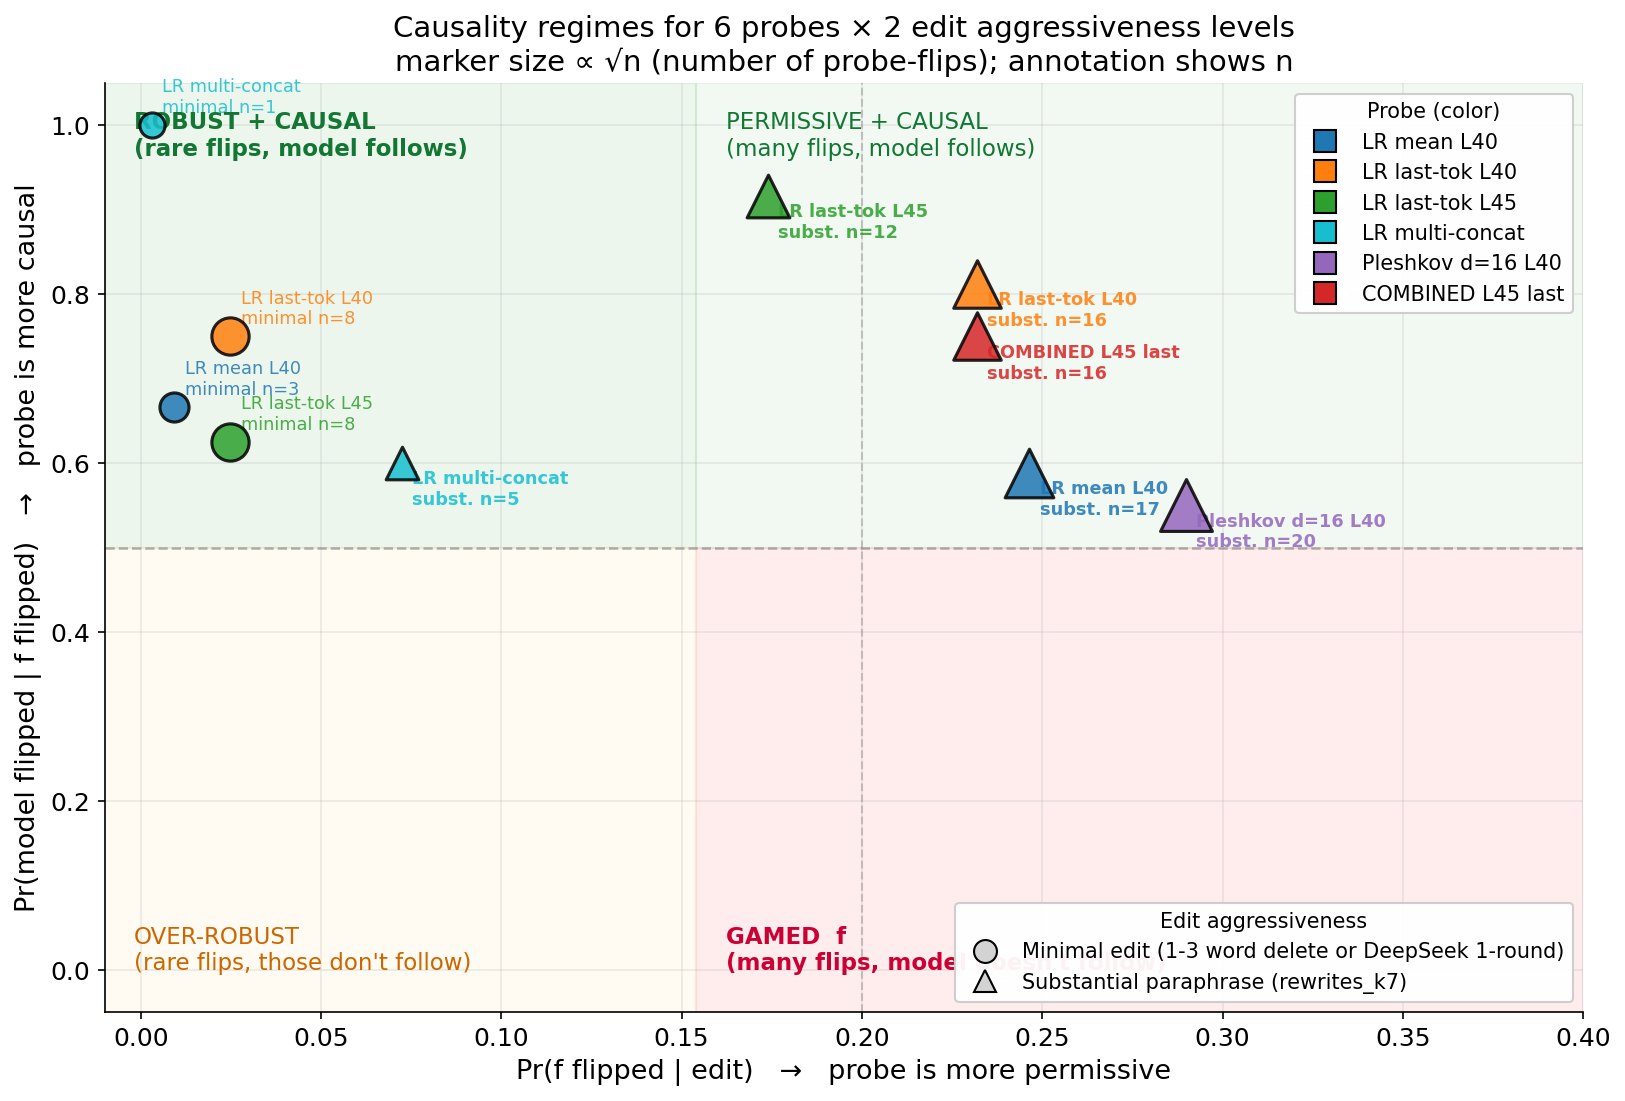
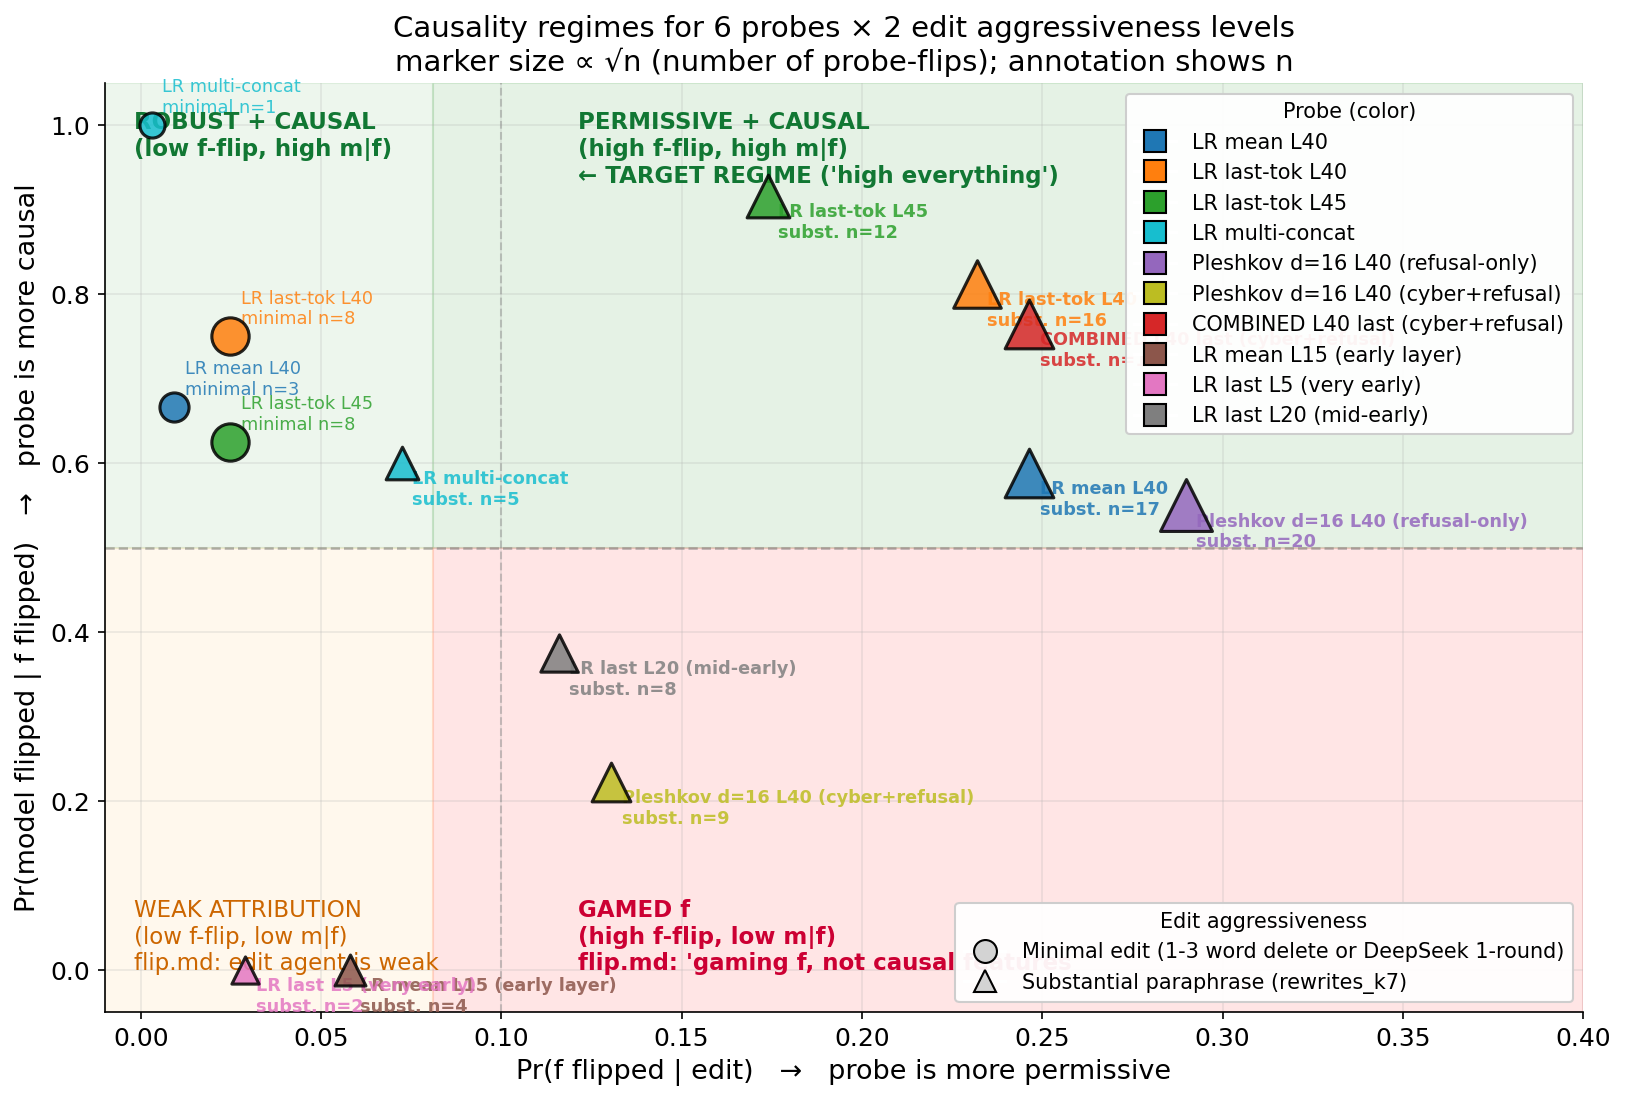
Causality plot fix: populate all 4 quadrants per flip.md
Added 4 more probes to the focused causality plot to fill the gamed-f
and weak-attribution quadrants:

  Pleshkov_d16_L40_combined  (cyber_3+refusal trained Pleshkov):
    Pr(f|edit)=0.130  Pr(m|f)=0.222  n=9  → GAMED quadrant
    Combining cyber_3 + refusal training data WITH quadratic probe
    produces a probe that flips often but doesn't track model behavior

  LR_last_L5, LR_last_L20, LR_mean_L15:
    Pr(f|edit)~0.03-0.12  Pr(m|f)~0.000-0.375  → WEAK ATTRIBUTION corner
    Early-layer probes don't carry refusal signal yet (exp 18 showed
    AUC < 0.83 at these layers); their few flips are noise.

Renamed quadrant labels to match flip.md exactly:
  ROBUST + CAUSAL  /  PERMISSIVE + CAUSAL ← TARGET ('high everything')
  GAMED f          /  WEAK ATTRIBUTION (flip.md: 'edit agent is weak')

Decision boundary moved to Pr(f|edit)=0.10 to put the bulk of probes
in the right quadrant.

diff --git a/experiments/37_presentation_plots/causality_focused.py b/experiments/37_presentation_plots/causality_focused.py
@@ -32,8 +32,12 @@ PROBES = [
     ("LR last-tok L40",    "lr_last_L40",        "LR_last_L40",        "#ff7f0e"),
     ("LR last-tok L45",    "lr_last_L45",        "LR_last_L45",        "#2ca02c"),
     ("LR multi-concat",    "lr_multi_concat",    "LR_multi_concat",    "#17becf"),
-    ("Pleshkov d=16 L40",  None,                  "Pleshkov_d16_L40_refusal", "#9467bd"),
-    ("COMBINED L45 last",  None,                  "COMBINED_L45_last",  "#d62728"),
+    ("Pleshkov d=16 L40 (refusal-only)",  None, "Pleshkov_d16_L40_refusal", "#9467bd"),
+    ("Pleshkov d=16 L40 (cyber+refusal)",  None, "Pleshkov_d16_L40_combined", "#bcbd22"),
+    ("COMBINED L40 last (cyber+refusal)",  None, "COMBINED_L40_last",  "#d62728"),
+    ("LR mean L15 (early layer)", None, "LR_mean_L15", "#8c564b"),
+    ("LR last L5 (very early)",   None, "LR_last_L5",  "#e377c2"),
+    ("LR last L20 (mid-early)",   None, "LR_last_L20", "#7f7f7f"),
 ]
 
 
@@ -43,11 +47,11 @@ def main():
 
     fig, ax = plt.subplots(figsize=(11, 7.5))
 
-    # Quadrant shading
-    ax.axhspan(0.5, 1.05, xmin=0, xmax=0.4, alpha=0.07, color="green")  # top-left
-    ax.axhspan(0.5, 1.05, xmin=0.4, xmax=1.0, alpha=0.05, color="green")  # top-right
-    ax.axhspan(-0.05, 0.5, xmin=0.4, xmax=1.0, alpha=0.07, color="red")  # bot-right
-    ax.axhspan(-0.05, 0.5, xmin=0, xmax=0.4, alpha=0.05, color="orange")  # bot-left
+    # Quadrant shading — boundaries at Pr(f|edit)=0.10 (vline) and Pr(m|f)=0.5
+    ax.axhspan(0.5, 1.05, xmin=0,    xmax=0.222, alpha=0.07, color="green")  # top-left robust+causal
+    ax.axhspan(0.5, 1.05, xmin=0.222, xmax=1.0,  alpha=0.10, color="green")  # top-right TARGET
+    ax.axhspan(-0.05, 0.5, xmin=0.222, xmax=1.0, alpha=0.10, color="red")    # bot-right gamed
+    ax.axhspan(-0.05, 0.5, xmin=0,    xmax=0.222, alpha=0.07, color="orange")  # bot-left weak
 
     # Points
     for label, k_min, k_sub, color in PROBES:
@@ -76,18 +80,18 @@ def main():
                              xytext=(5, -20), textcoords="offset points",
                              fontsize=8.5, color=color, alpha=0.85, fontweight="bold")
 
-    # Quadrant labels
-    ax.text(0.02, 0.97, "ROBUST + CAUSAL\n(rare flips, model follows)",
+    # Quadrant labels — boundaries at Pr(f|edit)=0.10 and Pr(m|f)=0.50
+    ax.text(0.02, 0.97, "ROBUST + CAUSAL\n(low f-flip, high m|f)",
             transform=ax.transAxes, fontsize=11, color="#117733", fontweight="bold", va="top")
-    ax.text(0.42, 0.97, "PERMISSIVE + CAUSAL\n(many flips, model follows)",
-            transform=ax.transAxes, fontsize=11, color="#117733", va="top")
-    ax.text(0.42, 0.04, "GAMED  f\n(many flips, model doesn't follow)",
+    ax.text(0.32, 0.97, "PERMISSIVE + CAUSAL\n(high f-flip, high m|f)\n← TARGET REGIME ('high everything')",
+            transform=ax.transAxes, fontsize=11, color="#117733", fontweight="bold", va="top")
+    ax.text(0.32, 0.04, "GAMED f\n(high f-flip, low m|f)\nflip.md: 'gaming f, not causal features'",
             transform=ax.transAxes, fontsize=11, color="#cc0033", fontweight="bold", va="bottom")
-    ax.text(0.02, 0.04, "OVER-ROBUST\n(rare flips, those don't follow)",
+    ax.text(0.02, 0.04, "WEAK ATTRIBUTION\n(low f-flip, low m|f)\nflip.md: edit agent is weak",
             transform=ax.transAxes, fontsize=11, color="#cc6600", va="bottom")
 
     ax.axhline(0.5, ls="--", c="grey", alpha=0.6, lw=1.2)
-    ax.axvline(0.40 * 0.5, ls="--", c="grey", alpha=0.4, lw=1)
+    ax.axvline(0.10, ls="--", c="grey", alpha=0.4, lw=1)
 
     # Legend — manual: shape = edit aggressiveness; color = probe family
     edit_handles = [
